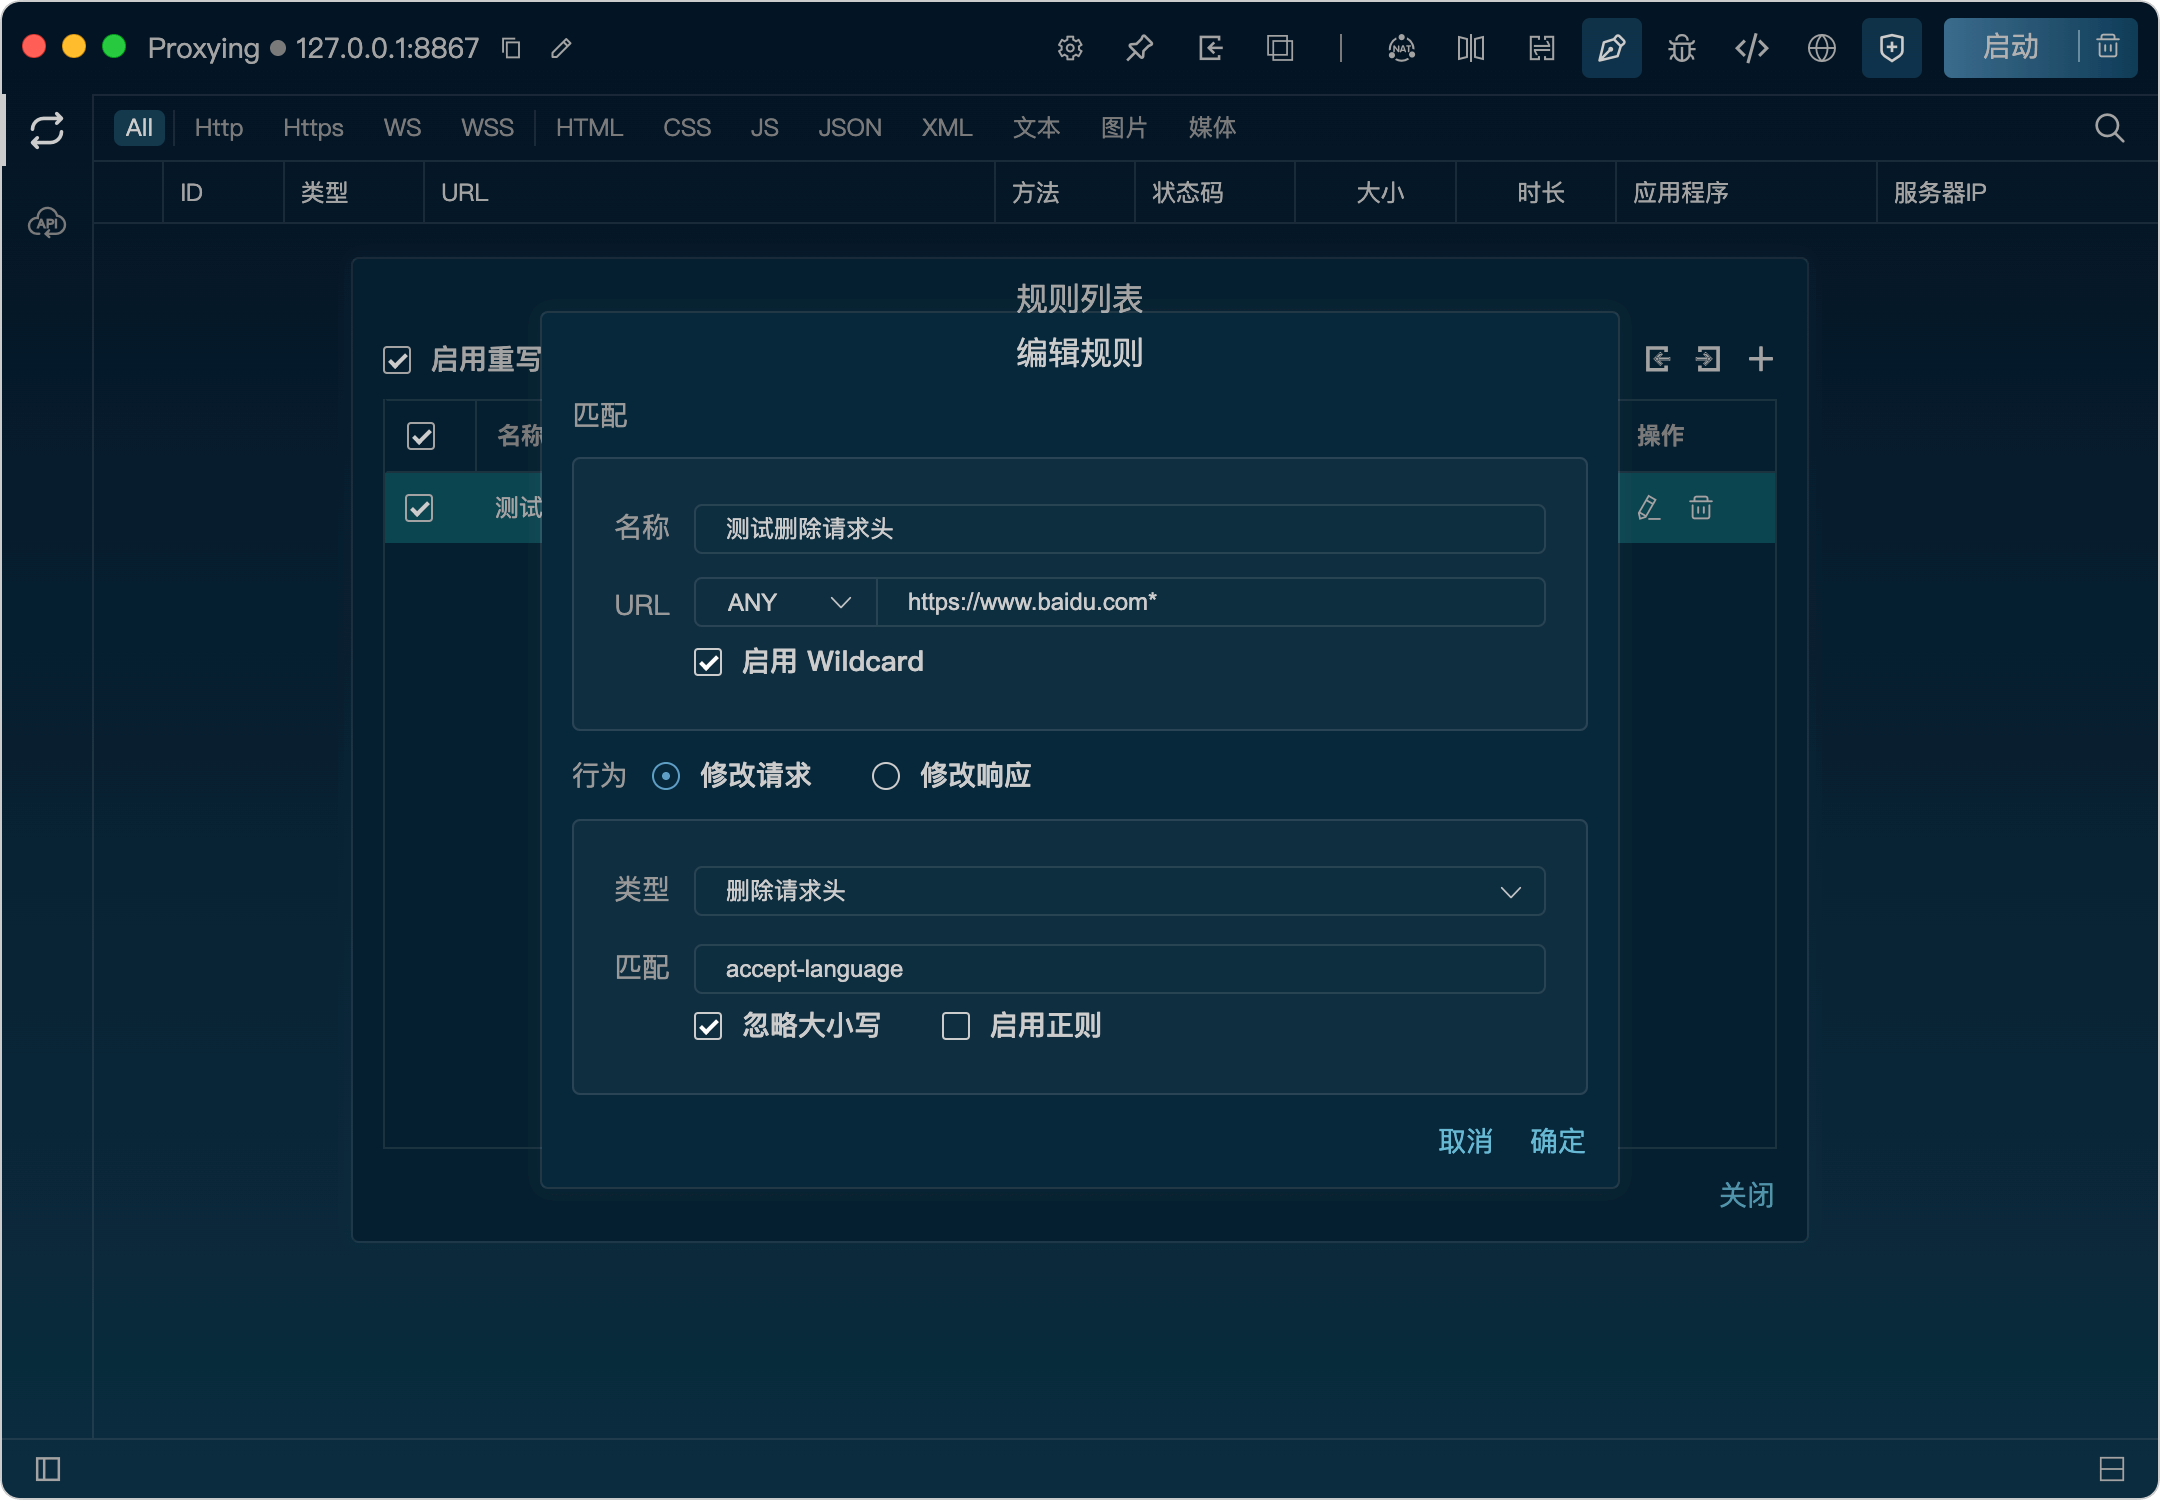
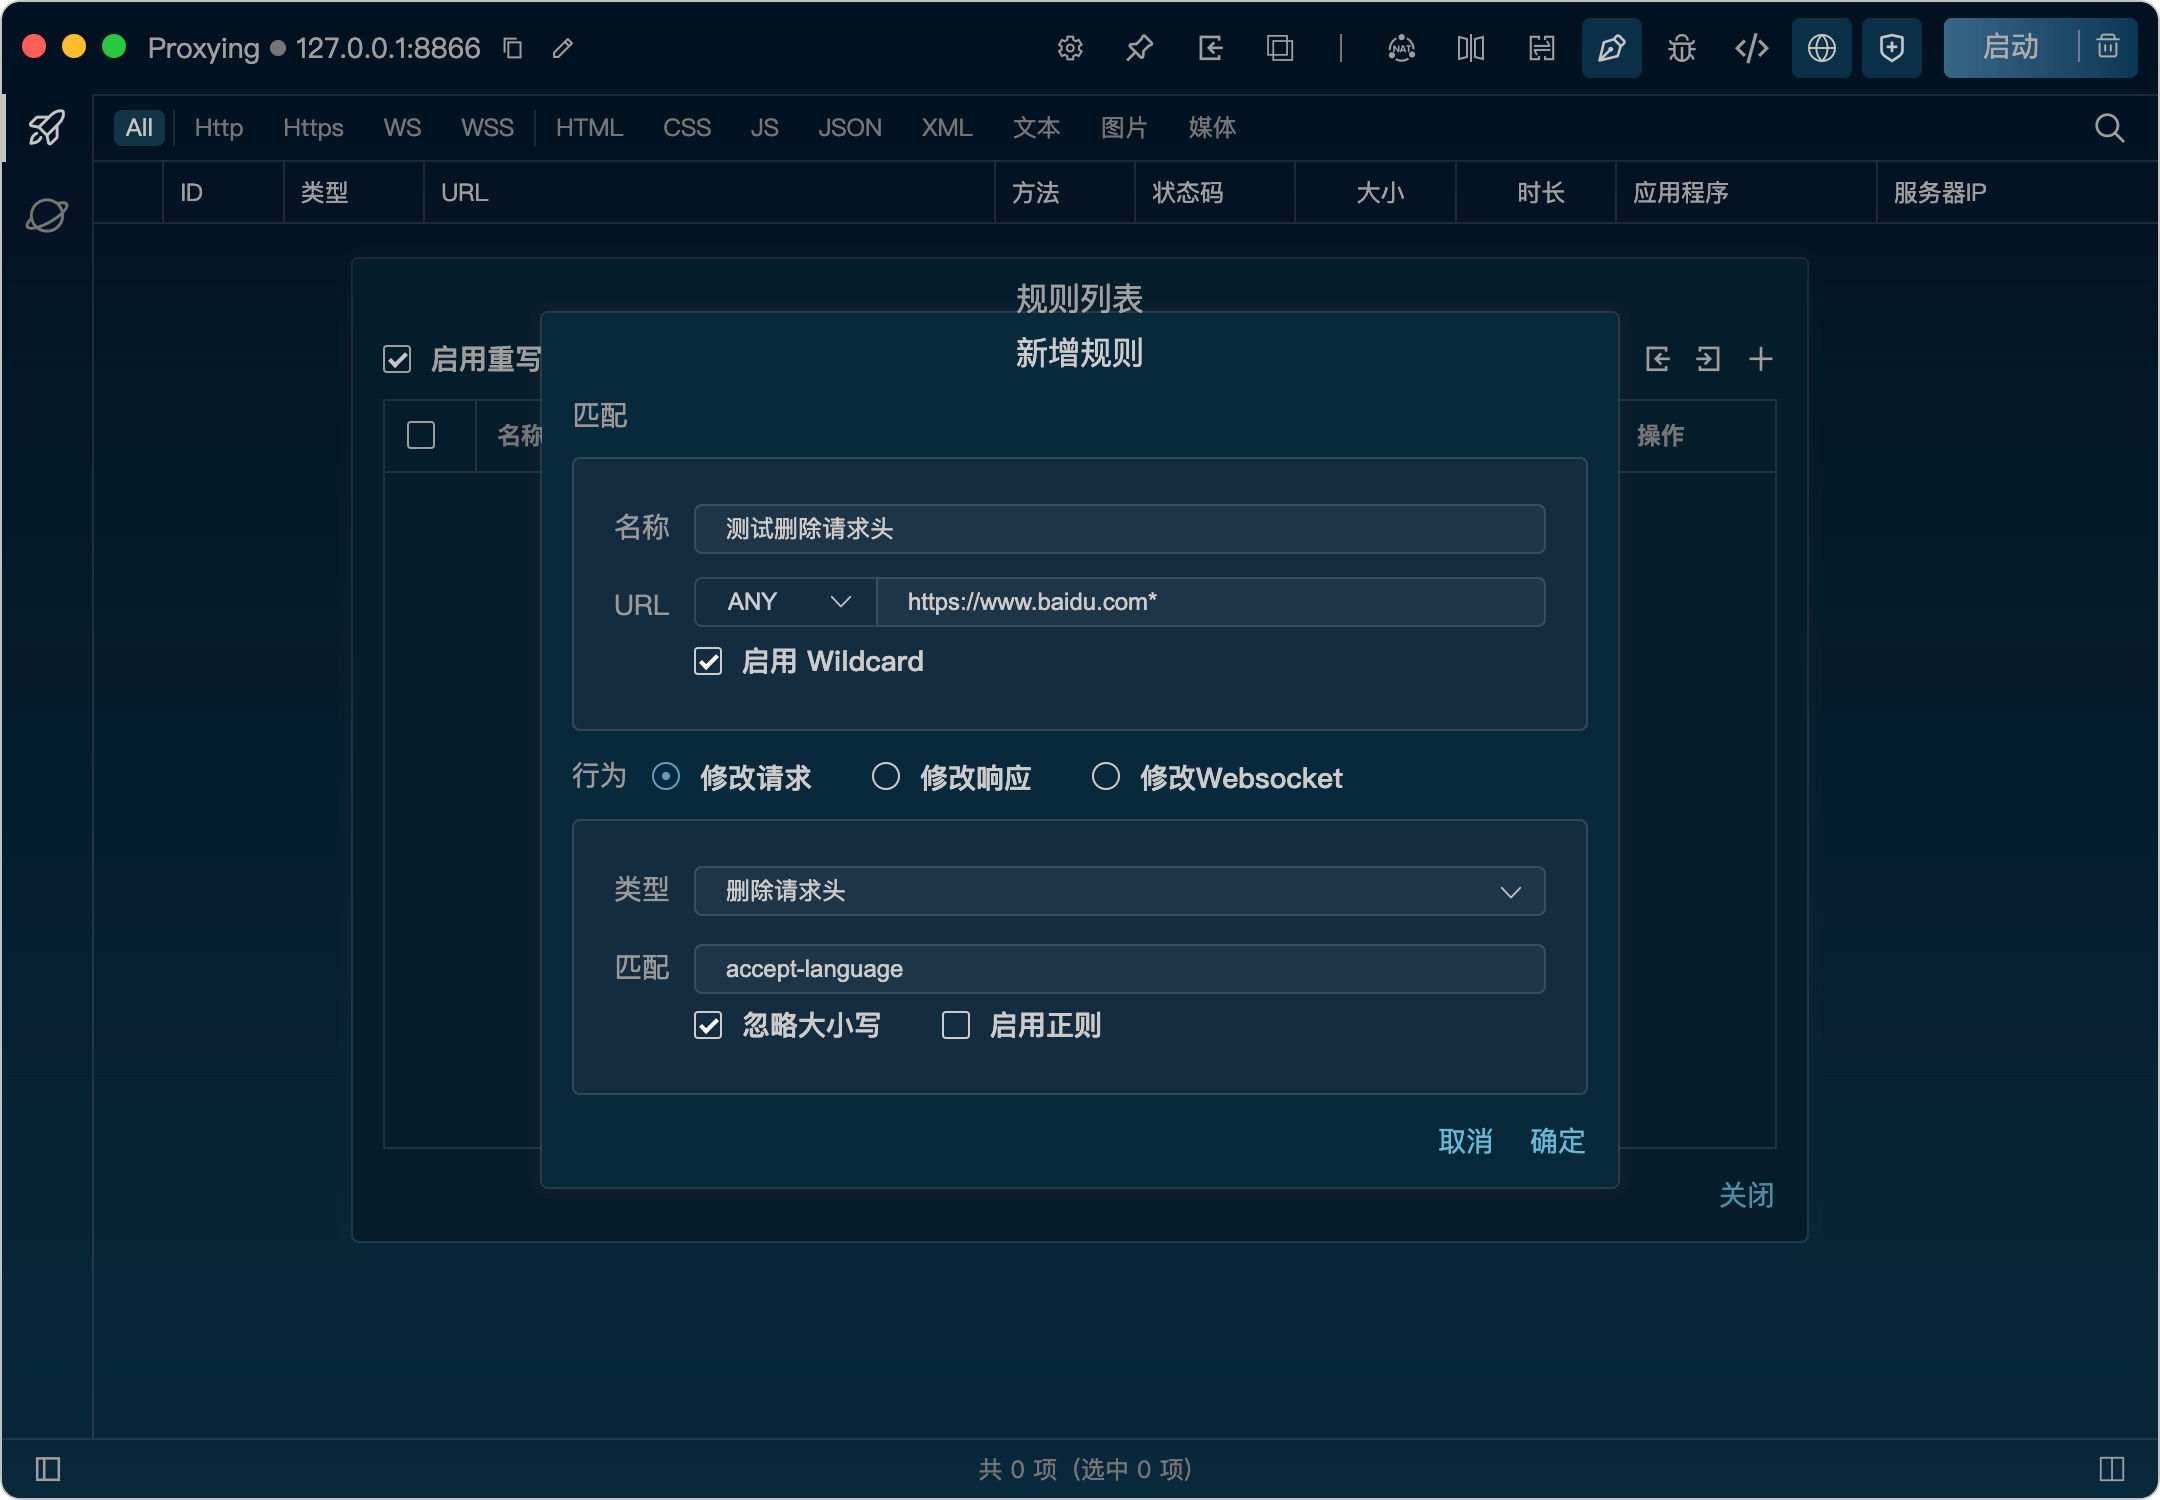
feat: websocket

diff --git a/doc/websocket.html b/doc/websocket.html
@@ -1,0 +1,79 @@
+<!DOCTYPE html>
+<html lang="en">
+
+<head>
+  <title>Websocket</title>
+  <meta charset="utf-8">
+  <meta http-equiv="X-UA-Compatible" content="IE=edge">
+  <link rel="stylesheet" type="text/css" href="./css/frame.css">
+</head>
+
+<body>
+  <div class="jy-content">
+    <div class="jy-content-header">
+      <div class="jy-content-title">Websocket</div>
+    </div>
+    <fieldset class="jy-field" style="margin-top:50px;">
+      <legend style="margin-top:50px">功能</legend>
+      <div class="jy-field-box">
+        <blockquote>
+          Listen对Websocket调试提供了良好的支持，可以方便的对消息进行查看与搜索，并且可以直接对客户端或服务器发送消息。利用重写和脚本功能，甚至可以拦截和修改服务器或客户端发送的消息。
+        </blockquote>
+      </div>
+    </fieldset>
+    <fieldset class="jy-field" style="margin-top:50px;">
+      <legend style="margin-top:50px">消息查看</legend>
+      <div class="jy-field-box">
+        对于Websocket连接，双击打开详情面板，切换到Websocket选项卡中，即可实时查看服务端与客户端发送的消息。
+        <br />
+        <img src="img/websocket/ws1.png">
+        <br />
+        <br />
+        点击消息界面左上角的搜索按钮，可以打开搜索面板，进行消息搜索。点击服务端或者客户端的头像，可以发送消息。
+      </div>
+    </fieldset>
+    <fieldset class="jy-field" style="margin-top:50px;">
+      <legend style="margin-top:50px">消息调试</legend>
+      <div class="jy-field-box">
+        Listen 提供了两种方式来拦截和修改消息。
+        <br />
+        <br />
+        <span>1、使用<a href="/doc/rewrite.html" target="_blank">重写</a>功能，编辑规则对服务端或客户端发送的消息进行拦截和修改。</span>
+        <br />
+        <span>编写规则时可以选择对Websocket消息体进行替换或者修改。也可以选择是否对Websocket消息类型就行更改</span>
+        <img src="img/websocket/ws2.png">
+        <br />
+        <br />
+        <span>2、使用<a href="/doc/rewrite.html" target="_blank">脚本</a>功能，编写JavaScript代码，对服务端或客户端发送的消息进行更灵活的拦截和修改。</span>
+        <br />
+        <br />
+        脚本里可以定义两个方法：
+        <br />
+        <span style="font-weight: bold;">onSendMessage({body, bodyType, url, opCode})：</span>
+        在客户端发送消息到达服务器之前调用，返回的{opCode, body}为修改后的消息类型和消息体。
+        <br />
+        <span style="font-weight: bold;">onReceiveMessage({body, bodyType, url, opCode})：</span>
+        在服务器发送消息到达客户端之前调用，返回的{opCode, body}为修改后的消息类型和消息体。
+        <br />
+        <br />
+        两个方法的参数说明：
+        <br />
+        <span style="font-weight: bold;">body：</span>客户端或服务端发送的消息体，为一个字符串或Object对象或者Uint8Array对象。
+        <br />
+        <span style="font-weight: bold;">bodyType：</span>body的类型，可能的值为"string"、"json"、"uint8array"等。
+        <br />
+        <span style="font-weight: bold;">url：</span>请求的完整URL地址。
+        <br />
+        <span style="font-weight: bold;">opCode：</span>Websocket消息类型。
+        <br />
+        <br />
+        例：下面的脚本代码会在客户端发送到消息到达服务器之前将消息内容修改为“send message”。在服务器发送消息到达客户端之前，将消息内容修改为“receive message”。
+        <br />
+        <br />
+        <img src="img/websocket/ws3.png">
+      </div>
+    </fieldset>
+  </div>
+</body>
+
+</html>

diff --git a/index.html b/index.html
@@ -260,6 +260,7 @@
     .hero-image img {
       width: 100%;
       max-width: 1200px;
+      box-shadow: 0 0 50px black;
     }
 
     .hero h1 {
@@ -388,6 +389,8 @@
     }
 
     .desc-wrap .desc {
+      display: block;
+      padding-left: 2px;
       font-size: 1.25rem;
       color: var(--text-secondary);
     }
@@ -400,6 +403,7 @@
 
     .desc-img-wrap img {
       width: 100%;
+      box-shadow: 0 0 50px black;
     }
 
     /* 使用场景部分 */
@@ -675,6 +679,14 @@
 
       <div class="feature-card">
         <div class="feature-icon">
+          <i class="icon icon-websocket"></i>
+        </div>
+        <h3>Websocket</h3>
+        <p>可对连接的Websocket进行查看、模拟消息发送等操作。利用重写和脚本功能可以对Websocket消息进行拦截与修改。</p>
+      </div>
+
+      <div class="feature-card">
+        <div class="feature-icon">
           <i class="icon icon-send"></i>
         </div>
         <h3>API Mocking</h3>
@@ -758,6 +770,20 @@
       </div>
     </div>
     <div class="desc-wrap-item">
+      <div class="desc-title-wrap">
+        <div class="desc-title">
+          <i class="icon icon-websocket"></i>
+          <span>Websocket</span>
+        </div>
+        <span class="desc">
+          Listen对Websocket调试提供了良好的支持，可以方便的对消息进行查看与搜索，并且可以直接对客户端或服务器发送消息。利用重写和脚本功能，甚至可以拦截和修改服务器或客户端发送的消息。
+        </span>
+      </div>
+      <div class="desc-img-wrap">
+        <img src="doc/img/websocket/ws1.png" alt="">
+      </div>
+    </div>
+    <div class="desc-wrap-item desc-item-reverse">
       <div class="desc-title-wrap">
         <div class="desc-title">
           <i class="icon icon-send"></i>

diff --git a/doc/script.html b/doc/script.html
@@ -57,10 +57,10 @@
       <div class="jy-field-box">
         脚本里可以定义两个方法：
         <br />
-        <span style="font-weight: bold;">onHttpRequest({header, body, bodyType, url, host, port, cookies})：</span>
+        <span style="font-weight: bold;">onHttpRequest({header, body, bodyType, url, cookies})：</span>
         在请求发送到服务器之前调用，返回的{header, body}为修改后的请求头和请求体。
         <br />
-        <span style="font-weight: bold;">onHttpResponse({header, body, bodyType, url, host, port, cookies})：</span>
+        <span style="font-weight: bold;">onHttpResponse({header, body, bodyType, url, cookies})：</span>
         在响应返回给客户端之前调用，返回的{header, body}为修改后的响应头头和响应体。
         <br />
         <br />
@@ -74,11 +74,7 @@
         <br />
         <span style="font-weight: bold;">url：</span>请求的完整URL地址。
         <br />
-        <span style="font-weight: bold;">host：</span>请求的主机名。
-        <br />
-        <span style="font-weight: bold;">port：</span>请求的端口号。
-        <br />
-        <span style="font-weight: bold;">cookies：</span>请求的Cookie信息，为一个对象。
+        <span style="font-weight: bold;">cookies：</span>请求头或响应头的Cookie信息，为一个对象。
         <br />
         <br />
         例：下面的脚本代码会在请求发送到服务器之前添加一个自定义的请求头"test_add_req_header: req"，并且把请求体替换成“request

diff --git a/css/font/iconfont.css b/css/font/iconfont.css
@@ -1,6 +1,6 @@
 @font-face {
   font-family: "icon"; /* Project id 4620628 */
-  src: url('iconfont.woff2?t=1756826640101') format('woff2');
+  src: url('iconfont.woff2?t=1762255267908') format('woff2');
 }
 
 .icon {
@@ -9,6 +9,18 @@
   font-style: normal;
   -webkit-font-smoothing: antialiased;
   -moz-osx-font-smoothing: grayscale;
+}
+
+.icon-websocket:before {
+  content: "\e735";
+}
+
+.icon-proxy:before {
+  content: "\e864";
+}
+
+.icon-net:before {
+  content: "\e6b2";
 }
 
 .icon-windows:before {
@@ -115,16 +127,8 @@
   content: "\e622";
 }
 
-.icon-proxy:before {
-  content: "\e61d";
-}
-
 .icon-send:before {
   content: "\e62d";
-}
-
-.icon-api:before {
-  content: "\e6c1";
 }
 
 .icon-ssl:before {

diff --git a/doc/rewrite.html b/doc/rewrite.html
@@ -56,6 +56,7 @@
       <div class="jy-field-box">
         修改请求时可以对发送到服务器的请求进行新增参数、修改参数、删除参数、新增请求头、修改请求头、删除请求头、替换请求体、修改请求体等修改。
         <br />
+        <br />
         <span style="font-weight: bold;">新增参数：</span>在URL后面添加新的参数，格式为key=value。
         <br />
         <span style="font-weight: bold;">例：</span>

diff --git a/doc/index.html b/doc/index.html
@@ -49,6 +49,7 @@
                 <li><a href="javascript:;" title="重写" url="rewrite.html">重写</a></li>
                 <li><a href="javascript:;" title="断点" url="break.html">断点</a></li>
                 <li><a href="javascript:;" title="脚本" url="script.html">脚本</a></li>
+                <li><a href="javascript:;" title="Websocket" url="websocket.html">Websocket</a></li>
             </ul>
         </div>
     </div>
